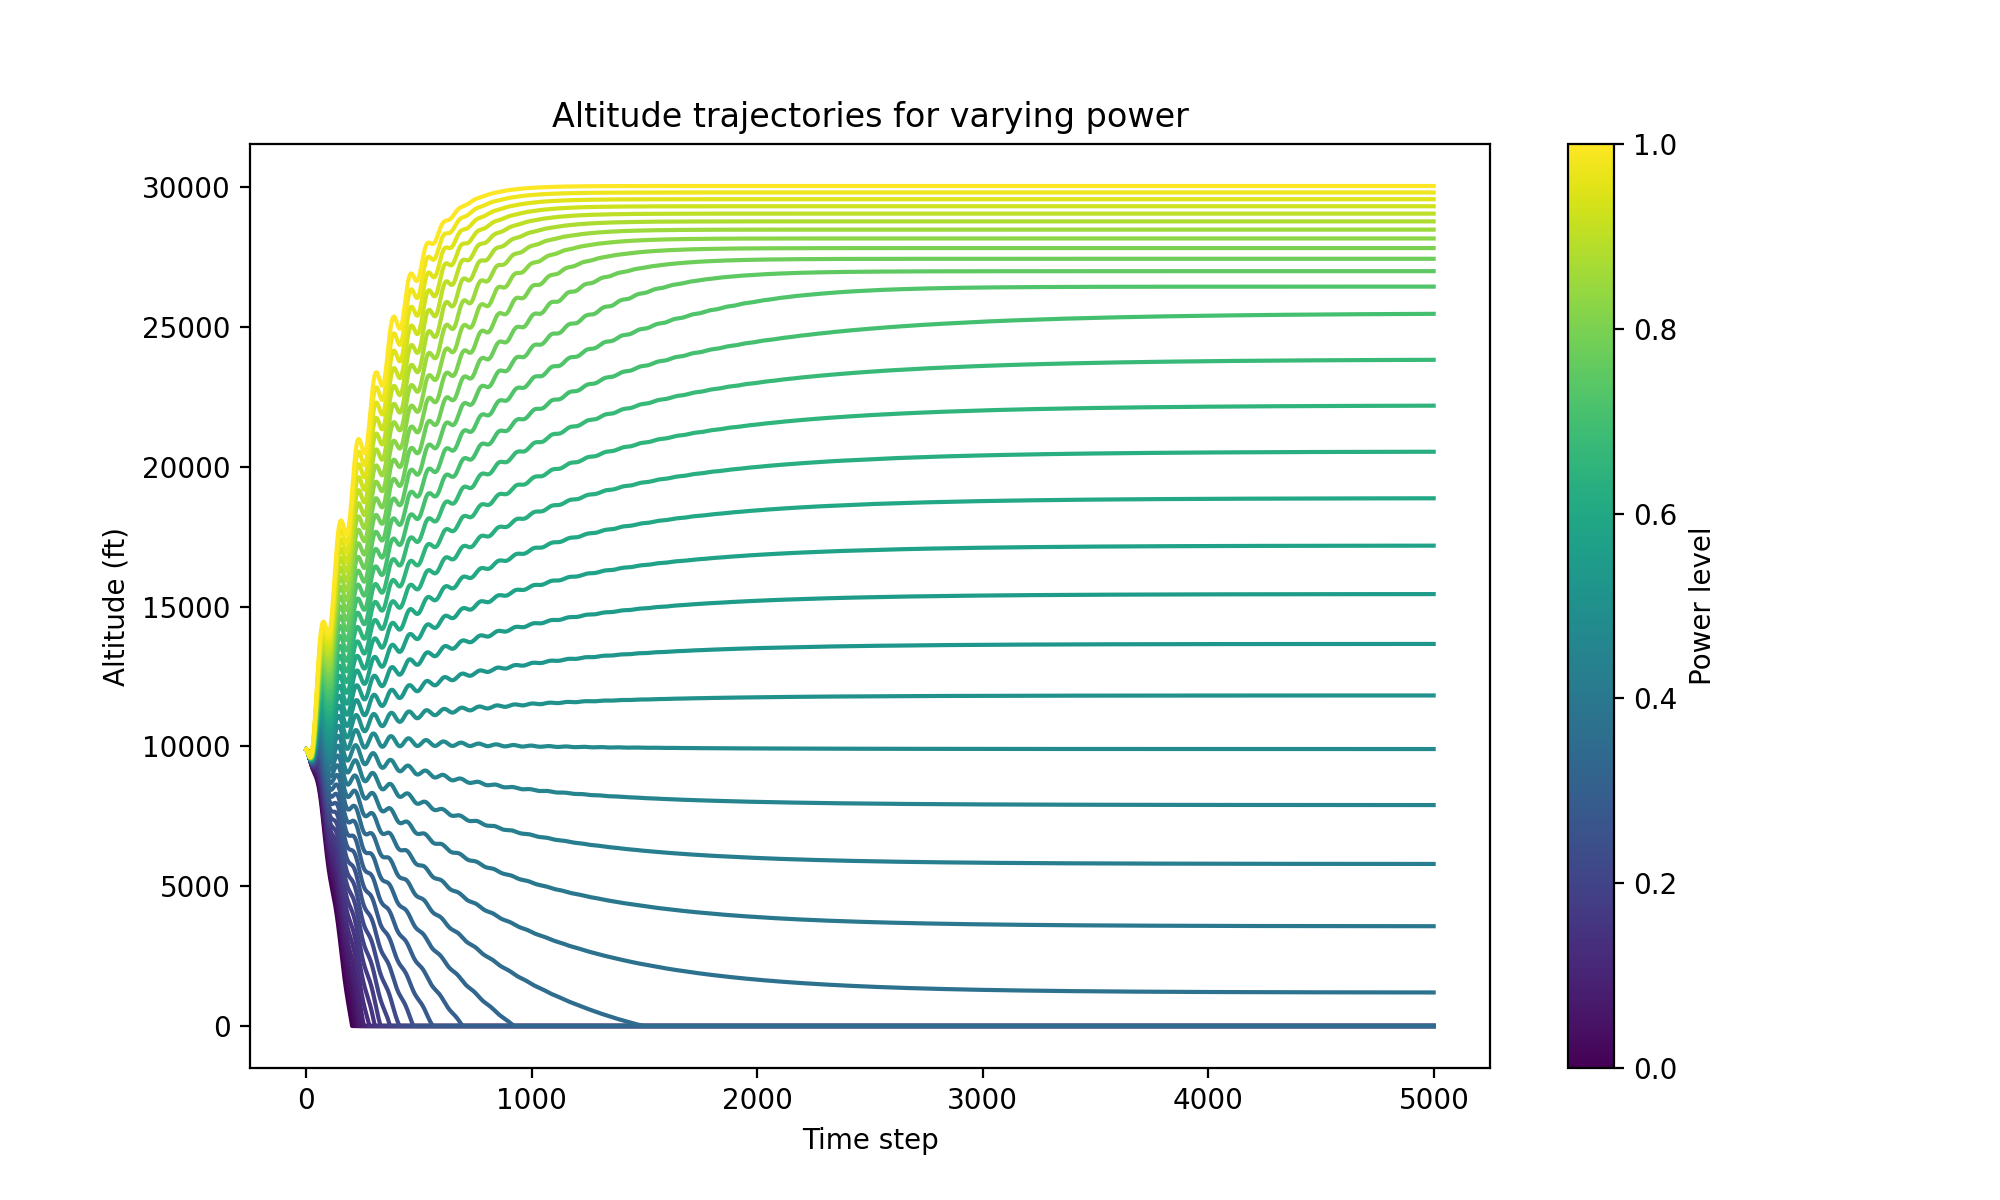
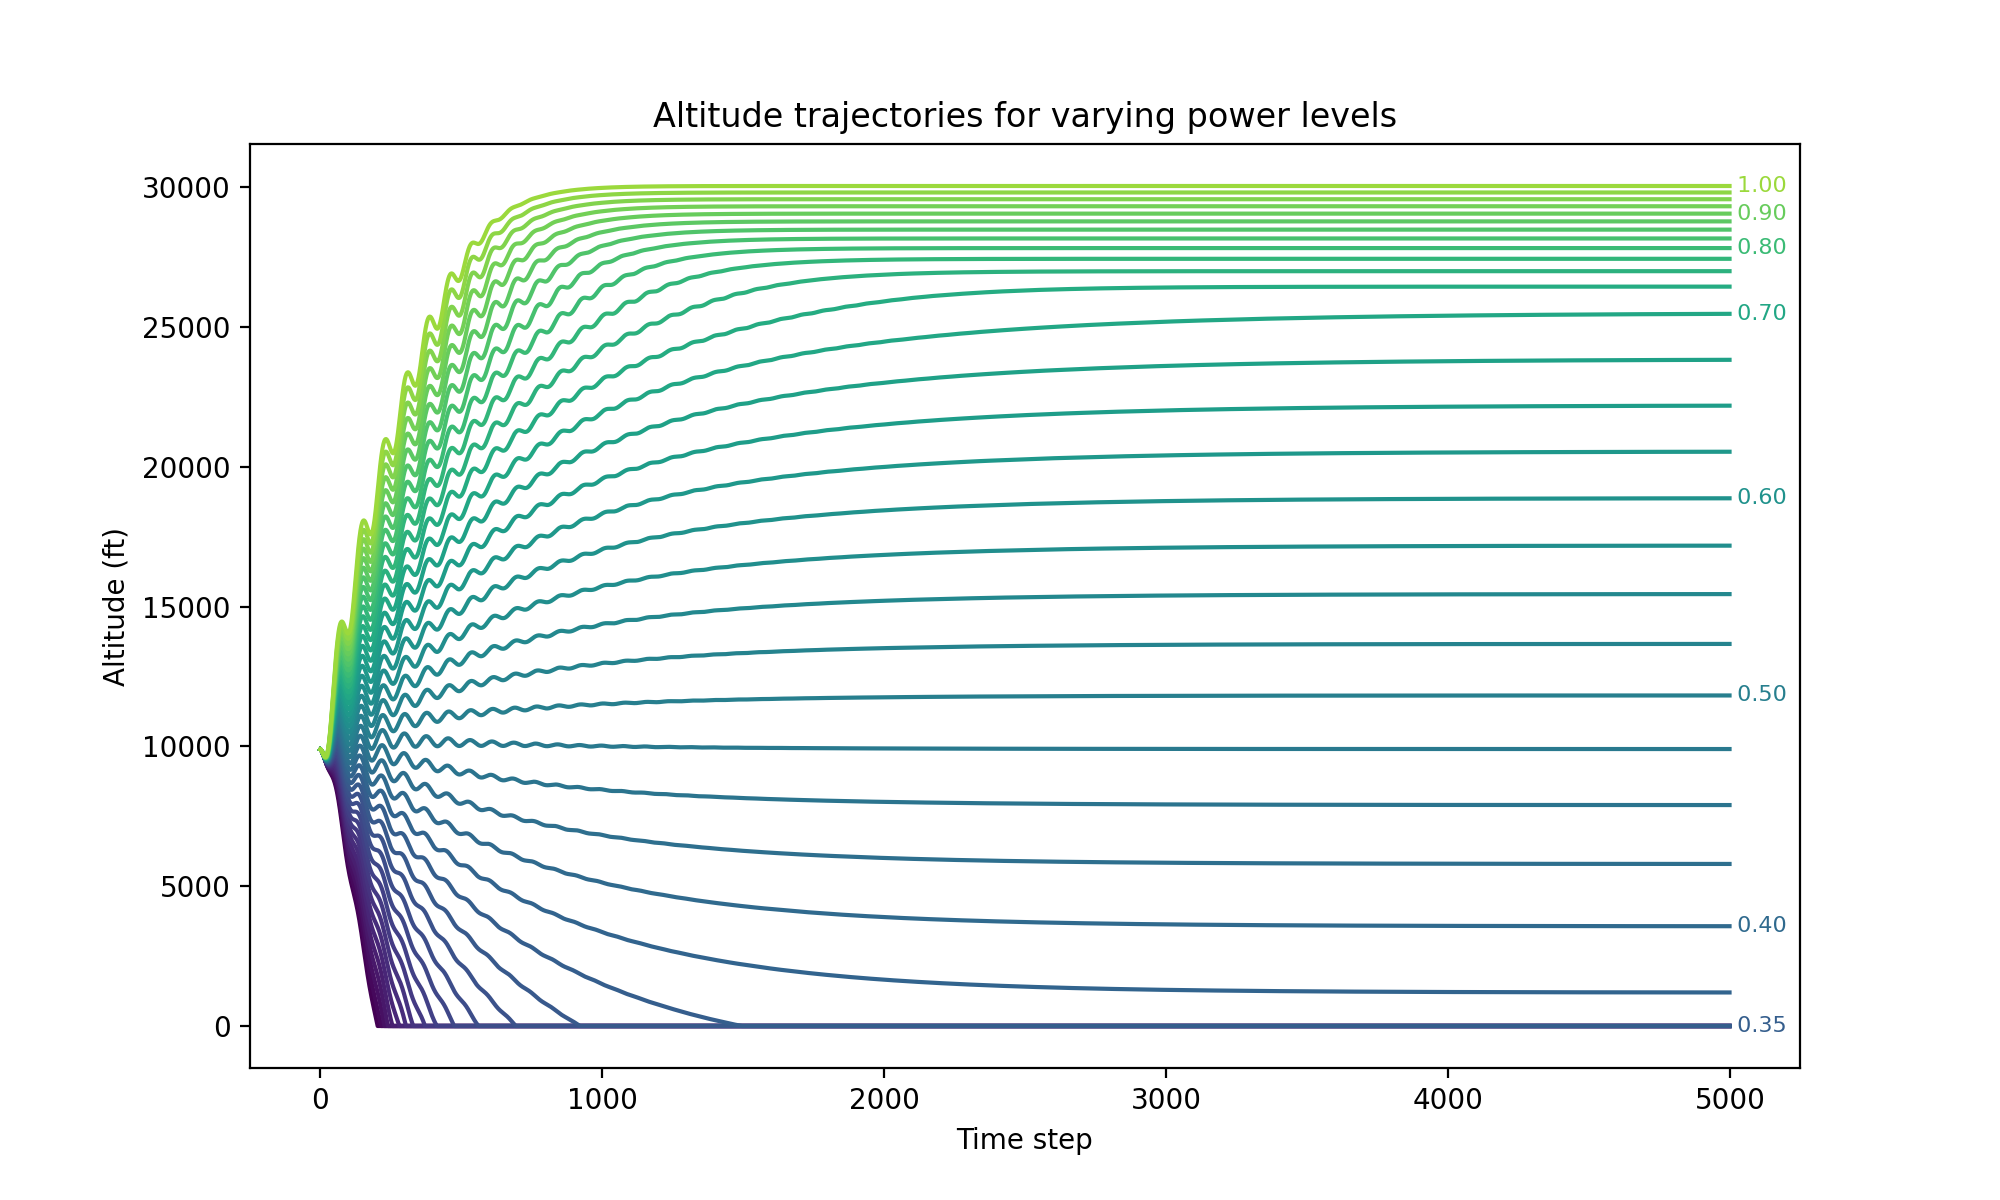
reworked runners

diff --git a/src/target_gym/runners/plane_runner.py b/src/target_gym/runners/plane_runner.py
@@ -11,11 +11,16 @@ import pandas as pd
 from scipy.interpolate import interp1d
 
 # Import environment
-from target_gym.plane.env_jax import Airplane2D, EnvParams
+from target_gym.plane.env_jax import Airplane2D, PlaneParams
+from target_gym.utils import truncate_colormap
 
 
 def run_constant_policy(
-    power: float, stick: float, env: Airplane2D, params: EnvParams, steps: int = 10_000
+    power: float,
+    stick: float,
+    env: Airplane2D,
+    params: PlaneParams,
+    steps: int = 10_000,
 ):
     key = jax.random.PRNGKey(0)
     obs, state = env.reset_env(key, params)
@@ -36,7 +41,11 @@ def run_constant_policy(
 
 
 def run_constant_policy_final_alt(
-    power: float, stick: float, env: Airplane2D, params: EnvParams, steps: int = 10_000
+    power: float,
+    stick: float,
+    env: Airplane2D,
+    params: PlaneParams,
+    steps: int = 10_000,
 ):
     key = jax.random.PRNGKey(0)
     init_obs, init_state = env.reset_env(key, params)
@@ -116,6 +125,17 @@ def get_interpolator(stick: float = 0.0):
     return build_power_interpolator_from_df(df, stick=stick)
 
 
+def last_zero_array_arg(arrs):
+    """
+    Given an array of arrays, return the index of the last array
+    whose last element equals 0. Return -1 if none.
+    """
+    arrs = np.asarray(arrs)
+    mask = arrs[:, -1] == 0
+    idxs = np.where(mask)[0]
+    return idxs[-1] if idxs.size > 0 else -1
+
+
 def run_mode(
     mode: str,
     power=1.0,
@@ -123,12 +143,13 @@ def run_mode(
     n_timesteps=10_000,
     plot: bool = True,
     save: bool = True,
+    show: bool = False,
     resolution: int = 20,
     **kwargs,
 ):
     env = Airplane2D(integration_method="rk4_1")
     if kwargs is not None:
-        params = EnvParams(**kwargs)
+        params = PlaneParams(**kwargs)
     else:
         params = env.default_params
 
@@ -153,16 +174,29 @@ def run_mode(
 
             fig, ax = plt.subplots(figsize=(10, 6))
             norm = colors.Normalize(vmin=power_levels.min(), vmax=power_levels.max())
-            cmap = cm.viridis
+            cmap = truncate_colormap(cm.viridis, 0.0, 0.85)
+            idx_zero = last_zero_array_arg(trajectories)
             for i, traj in enumerate(trajectories):
                 ax.plot(traj, color=cmap(norm(power_levels[i])))
+                if ((i % 4) == 0 and traj[-1] > 0) or i == idx_zero:
+                    ax.text(
+                        x=len(traj) - 1,
+                        y=traj[-1],
+                        s=f" {float(power_levels[i]):.2f}",  # format the throttle value
+                        color=cmap(norm(power_levels[i])),
+                        fontsize=8,
+                        va="center",
+                        ha="left",
+                    )
 
             sm = cm.ScalarMappable(cmap=cmap, norm=norm)
             sm.set_array([])
-            fig.colorbar(sm, ax=ax).set_label("Power level")
+            # fig.colorbar(sm, ax=ax).set_label("Power level")
+            xmin, xmax = plt.xlim()
+            plt.xlim(xmin, xmax + 0.05)
             ax.set_xlabel("Time step")
             ax.set_ylabel("Altitude (ft)")
-            ax.set_title("Altitude trajectories for varying power")
+            ax.set_title("Altitude trajectories for varying power levels")
             os.makedirs("figures/plane", exist_ok=True)
             plt.savefig("figures/plane/power_trajectories.pdf")
             plt.savefig("figures/plane/power_trajectories.png")
@@ -195,7 +229,8 @@ def run_mode(
             os.makedirs("figures/plane", exist_ok=True)
             fig.savefig("figures/plane/3d_altitude.pdf")
             fig.savefig("figures/plane/3d_altitude.png")
-            plt.show()
+            if show:
+                plt.show()
         return df
 
     elif mode == "video":
@@ -215,7 +250,11 @@ def run_mode(
         raise ValueError(f"Unknown mode: {mode}")
 
 
-if __name__ == "__main__":
-    run_mode("2d", n_timesteps=5000)  # or "2d" or "video"
+def run_all_modes(show: bool = False):
+    run_mode("2d", n_timesteps=5000)
     run_mode("video", power=0.5, stick=0, max_steps_in_episode=1_000)
-    run_mode("3d", n_timesteps=20_000, max_alt=20_000, resolution=40)
+    run_mode("3d", n_timesteps=20_000, max_alt=20_000, resolution=40, show=show)
+
+
+if __name__ == "__main__":
+    run_all_modes(show=True)

diff --git a/src/target_gym/runners/car_runner.py b/src/target_gym/runners/car_runner.py
@@ -12,6 +12,7 @@ from scipy.interpolate import interp1d
 
 # Import environment
 from target_gym import Car, CarParams
+from target_gym.utils import truncate_colormap
 
 
 def run_constant_policy(
@@ -32,7 +33,7 @@ def run_constant_policy(
     (_, final_state, _), (velocity_history, done_history) = jax.lax.scan(
         step_fn, (key, state, False), None, length=steps
     )
-    return final_state.velocity, velocity_history * (1 - done_history)
+    return final_state.velocity, (velocity_history * (1 - done_history))[:-1]
 
 
 def run_constant_policy_final_alt(
@@ -131,16 +132,26 @@ def run_mode(
             norm = colors.Normalize(
                 vmin=throttle_levels.min(), vmax=throttle_levels.max()
             )
-            cmap = cm.viridis
+            cmap = truncate_colormap(cm.viridis, 0.0, 0.85)
             for i, traj in enumerate(trajectories):
-                ax.plot(traj, color=cmap(norm(throttle_levels[i])))
+                ax.plot(traj * 3.6, color=cmap(norm(throttle_levels[i])))
+                if (i % 4) == 0:
+                    ax.text(
+                        x=len(traj) - 1,
+                        y=traj[-1] * 3.6,
+                        s=f" {float(throttle_levels[i]):.2f}",  # format the throttle value
+                        color=cmap(norm(throttle_levels[i])),
+                        fontsize=8,
+                        va="center",
+                        ha="left",
+                    )
 
             sm = cm.ScalarMappable(cmap=cmap, norm=norm)
             sm.set_array([])
-            fig.colorbar(sm, ax=ax).set_label("Throttle level")
+            # fig.colorbar(sm, ax=ax).set_label("Throttle level")
             ax.set_xlabel("Time step")
-            ax.set_ylabel("Velocity (m/s)")
-            ax.set_title("Velocity trajectories for varying throttle")
+            ax.set_ylabel("Velocity (km/h)")
+            ax.set_title("Velocity trajectories for varying throttle levels")
             os.makedirs("figures/car", exist_ok=True)
             plt.savefig("figures/car/throttle_trajectories.pdf")
             plt.savefig("figures/car/throttle_trajectories.png")
@@ -152,7 +163,7 @@ def run_mode(
             return throttle
 
         file = env.save_video(select_action, seed, params=params)
-        from moviepy.video.io.VideoFileClip import VideoFileClipx
+        from moviepy.video.io.VideoFileClip import VideoFileClip
 
         video = VideoFileClip(file)
         os.makedirs("videos/car", exist_ok=True)
@@ -162,6 +173,13 @@ def run_mode(
         raise ValueError(f"Unknown mode: {mode}")
 
 
+def run_all_modes():
+    n_steps = 1_000
+    run_mode(
+        "2d", n_timesteps=n_steps, max_steps_in_episode=n_steps, resolution=20
+    )  # or "2d" or "video"
+    run_mode("video", throttle=0.15, max_steps_in_episode=n_steps)
+
+
 if __name__ == "__main__":
-    run_mode("2d", n_timesteps=5_000, max_steps_in_episode=5_000)  # or "2d" or "video"
-    run_mode("video", throttle=0.5, max_steps_in_episode=1_000)
+    run_all_modes()

diff --git a/src/target_gym/car/env.py b/src/target_gym/car/env.py
@@ -61,26 +61,32 @@ class CarParams(EnvParams):
     braking_force: float = 1_000.0  # Max braking force [N]
     braking_friction: float = 0.5  # Coefficient of friction when braking
 
-    # Engine torque curve
-    idle_rpm: float = 800.0
-    redline_rpm: float = 6000.0
-    peak_rpm: float = 3000.0
-    peak_torque: float = 150.0
+    # Electric engine
+    base_rpm: float = 4000.0
+    max_torque: float = 150.0
 
 
-def engine_torque_from_rpm(rpm: float, throttle: float, params: CarParams):
+def electric_torque_from_rpm(rpm: float, throttle: float, params: CarParams):
+    """
+    Simple EV motor model:
+    - Constant torque until base_rpm
+    - Then constant power (torque decreases ~ 1/rpm)
+    """
     rpm = jnp.asarray(rpm)
-    rpm_clipped = jnp.clip(rpm, params.idle_rpm, params.redline_rpm)
-    rpm_norm = (rpm_clipped - params.idle_rpm) / (params.redline_rpm - params.idle_rpm)
-    peak_norm = (params.peak_rpm - params.idle_rpm) / (
-        params.redline_rpm - params.idle_rpm
-    )
 
-    sigma = getattr(params, "torque_sigma", 0.30)
-    gauss = jnp.exp(-0.5 * ((rpm_norm - peak_norm) / sigma) ** 2)
+    base_rpm = getattr(params, "base_rpm", 4000.0)
+    max_torque = getattr(params, "max_torque", 300.0)  # [Nm]
+    max_power = (max_torque * base_rpm * 2 * jnp.pi) / 60.0  # [W]
 
-    torque_curve = gauss
-    return throttle * params.peak_torque * torque_curve
+    # Region 1: constant torque
+    torque_const = max_torque * throttle
+
+    # Region 2: constant power (T = P / ω)
+    omega = rpm * 2 * jnp.pi / 60.0
+    torque_power = (max_power / (omega + 1e-8)) * throttle
+
+    torque = jnp.where(rpm <= base_rpm, torque_const, torque_power)
+    return torque
 
 
 def road_profile(x):
@@ -147,7 +153,7 @@ def compute_thrust(throttle: float, velocity: float, params: CarParams):
     wheel_omega = velocity / params.wheel_radius
     engine_omega = wheel_omega * params.gear_ratio * params.final_drive
     rpm = engine_omega * 60.0 / (2 * jnp.pi)
-    T_engine = engine_torque_from_rpm(rpm, throttle, params)
+    T_engine = electric_torque_from_rpm(rpm, throttle, params)
     T_wheel = (
         T_engine * params.gear_ratio * params.final_drive * params.drivetrain_efficiency
     )

diff --git a/src/target_gym/runners/bicycle_runner.py b/src/target_gym/runners/bicycle_runner.py
@@ -135,6 +135,7 @@ def run_mode(
     n_timesteps=10_000,
     plot: bool = True,
     save: bool = True,
+    show: bool = False,
     resolution: int = 20,
     **kwargs,
 ):
@@ -209,7 +210,8 @@ def run_mode(
             os.makedirs("figures/bike", exist_ok=True)
             fig.savefig("figures/bike/3d_altitude.pdf")
             fig.savefig("figures/bike/3d_altitude.png")
-            plt.show()
+            if show:
+                plt.show()
         return df
 
     elif mode == "video":
@@ -229,7 +231,11 @@ def run_mode(
         raise ValueError(f"Unknown mode: {mode}")
 
 
-if __name__ == "__main__":
+def run_all_modes(show: bool = False):
     run_mode("2d", n_timesteps=100)  # or "2d" or "video"
     run_mode("video", power=0.5, stick=0, max_steps_in_episode=100)
-    run_mode("3d", n_timesteps=100, resolution=40)
+    run_mode("3d", n_timesteps=100, resolution=40, show=show)
+
+
+if __name__ == "__main__":
+    run_all_modes(show=True)

diff --git a/src/target_gym/utils.py b/src/target_gym/utils.py
@@ -3,6 +3,7 @@ from typing import Any, Callable, Sequence
 
 import jax
 import jax.numpy as jnp
+import matplotlib.cm as cm
 import matplotlib.pyplot as plt
 import numpy as np
 import pandas as pd
@@ -234,3 +235,12 @@ def convert_raw_action_to_range(raw_action, min_action, max_action):
         max_action - min_action
     )
     return action
+
+
+def truncate_colormap(cmap, minval=0.0, maxval=1.0, n=256):
+    """Return a truncated colormap from minval to maxval."""
+    new_cmap = cm.colors.LinearSegmentedColormap.from_list(
+        f"trunc({cmap.name},{minval:.2f},{maxval:.2f})",
+        cmap(np.linspace(minval, maxval, n)),
+    )
+    return new_cmap

diff --git a/src/target_gym/runners/runners.py b/src/target_gym/runners/runners.py
@@ -1,0 +1,10 @@
+from tqdm import tqdm
+
+from target_gym.runners.bicycle_runner import run_all_modes as run_bike
+from target_gym.runners.car_runner import run_all_modes as run_car
+from target_gym.runners.plane_runner import run_all_modes as run_plane
+
+if __name__ == "__main__":
+    environments = [run_plane, run_bike, run_car]
+    for run_env in tqdm(environments):
+        run_env()
